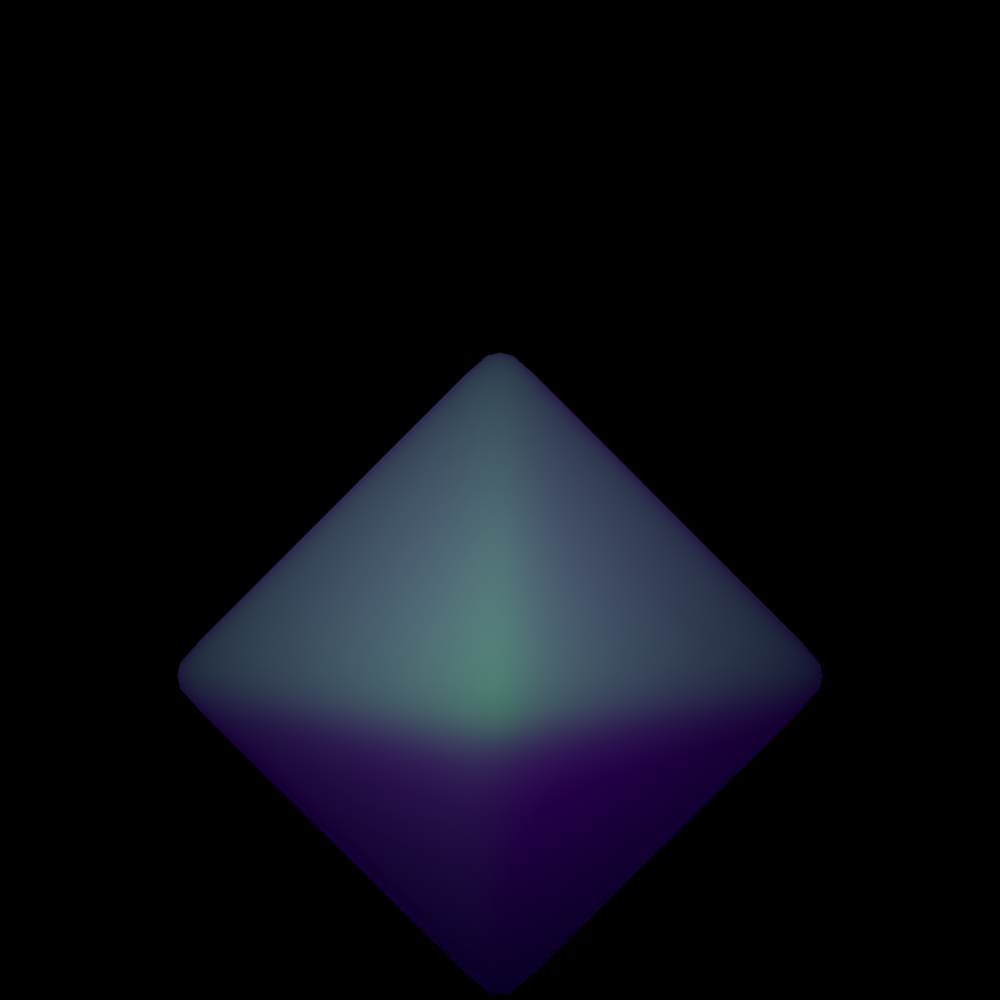
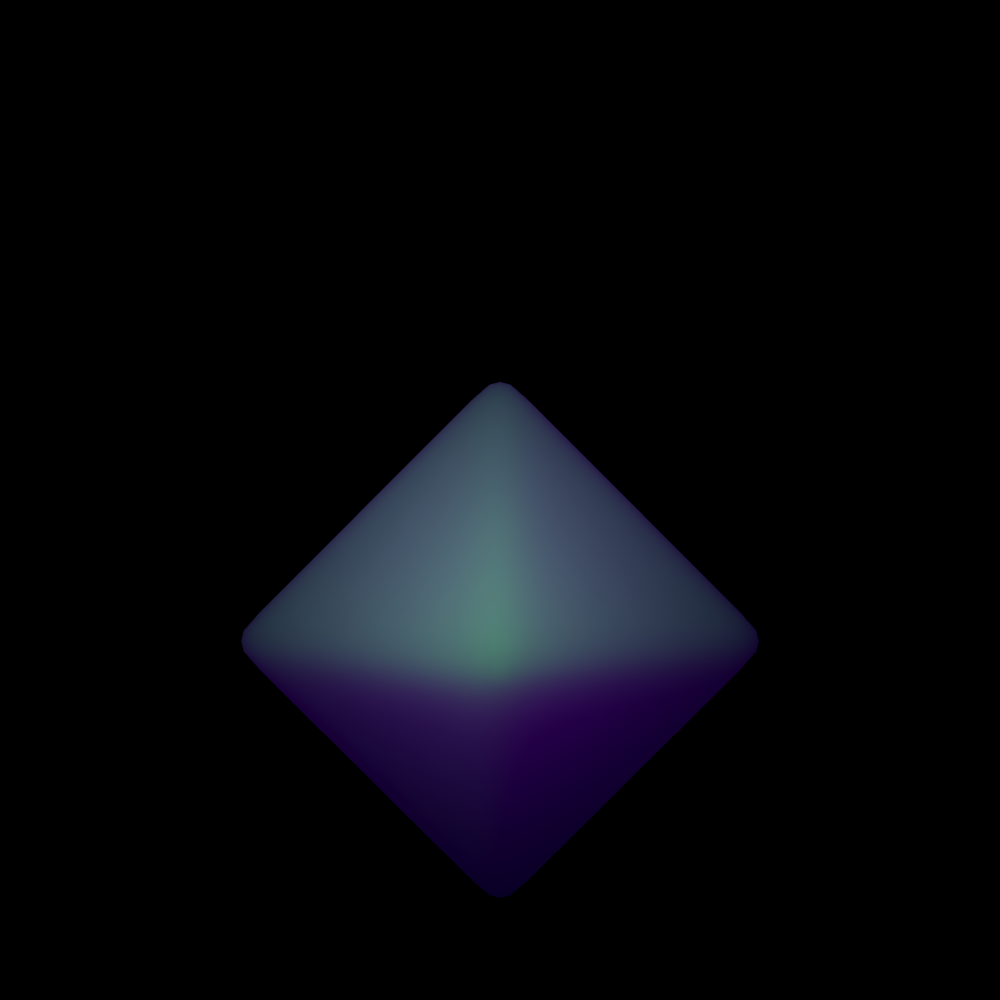
increase workgroup size to 32

Changed region(s): [[0.155, 0.341, 0.837, 1.0]]

diff --git a/src/main.py b/src/main.py
@@ -401,7 +401,7 @@ def main():
     influx_buffer_object = ctx.buffer(
         np.array([
             [flux.x, flux.y, flux.z, 0.0] for flux in influx.to_list()
-        ]).astype(np.float32).tobytes()
+        ]).astype(np.float32)
     )
     print(f"Transferring data took: {(time.time() - start) * 1000} msec")
     start = time.time()
@@ -412,7 +412,7 @@ def main():
         compute_shader = ctx.compute_shader(
             """
                 #version 430 core
-                layout(local_size_x = 1) in;
+                layout(local_size_x = 32) in;
                 layout(std430, binding=0) buffer flux_in
                 {
                     vec4 influx[];
@@ -428,6 +428,7 @@ def main():
                 void main()
                 {
                     int vertex_index = int(gl_GlobalInvocationID);
+                    if (vertex_count <= vertex_index) return;
                     vec3 vertex_position = vertex[vertex_index].xyz;
                     vec3 acc = vec3(0.0);
                     for (int i = 0; i < vertex_count; i++)
@@ -453,7 +454,7 @@ def main():
         compute_shader = ctx.compute_shader(
             """
                 #version 430 core
-                layout(local_size_x = 1) in;
+                layout(local_size_x = 32) in;
                 layout(std430, binding=0) buffer flux_in
                 {
                     vec4 influx[];
@@ -469,6 +470,7 @@ def main():
                 void main()
                 {
                     int vertex_index = int(gl_GlobalInvocationID);
+                    if (vertex_count <= vertex_index) return;
                     vec3 vertex_position = vertex[vertex_index].xyz;
                     vec3 acc = influx[vertex_index].xyz * albedo / (8.0 * 3.1415926);
                     for (int i = 0; i < vertex_count; i++)
@@ -501,7 +503,7 @@ def main():
     influx_buffer_object.bind_to_storage_buffer(0)
     vbo.bind_to_storage_buffer(1)
     efflux_buffer_object.bind_to_storage_buffer(2)
-    compute_shader.run(model_vertex_count)
+    compute_shader.run((model_vertex_count + 31) // 32)
     vao = ctx.vertex_array(
         shader,
         [
